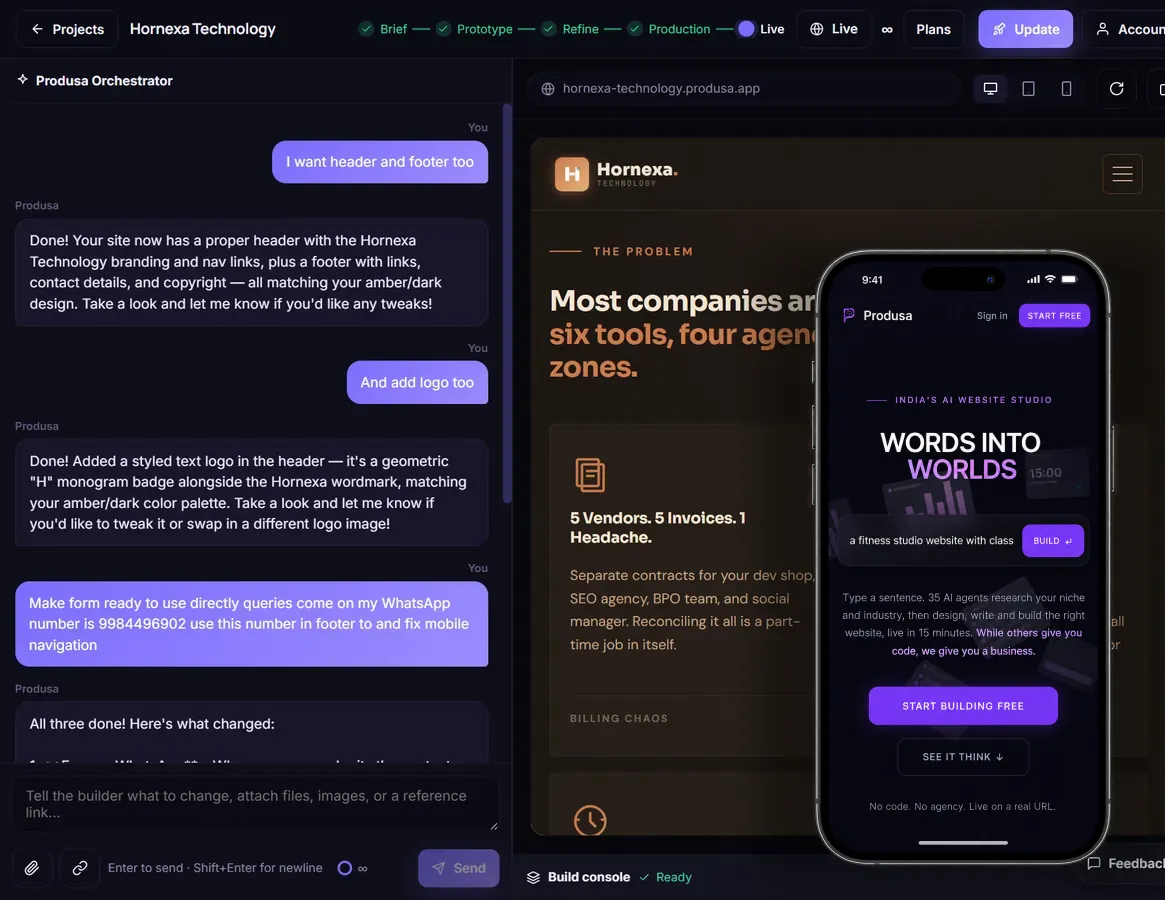
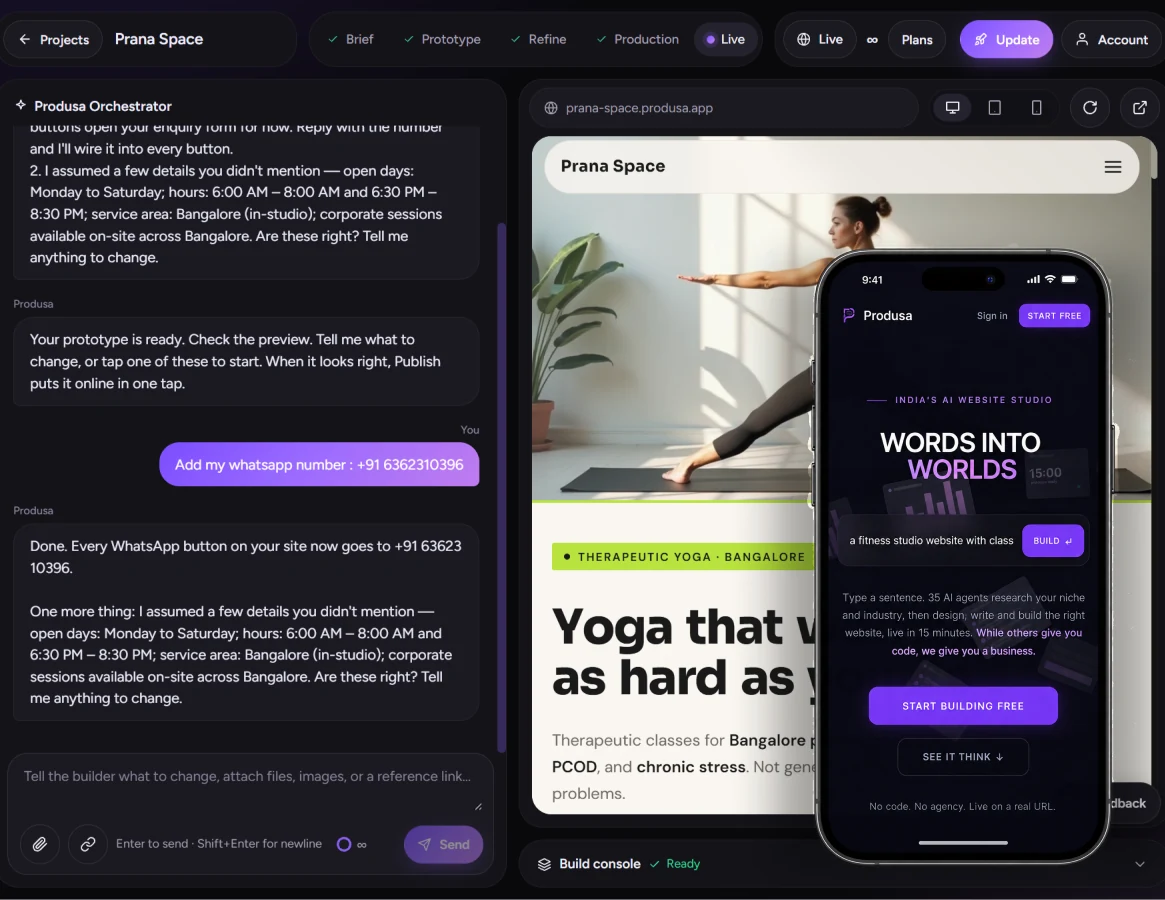
Swap Produsa case-study cover to new studio screenshot; update alt text

diff --git a/index.html b/index.html
@@ -75,7 +75,7 @@
         <article class="feat" data-accent="#0050FF">
           <a class="feat__shot" href="/produsa.html" aria-label="Produsa case study">
             <img src="/assets/media/produsa-cover.webp" width="1165" height="900" loading="lazy" decoding="async"
-                 alt="The Produsa studio: an owner asks the chat for a header, footer and logo, and the finished site stands in the preview beside it, on desktop and on a phone.">
+                 alt="The Produsa studio: an owner asks the chat to wire their WhatsApp number into the site, and the finished studio website stands in the preview beside it, on desktop and on a phone.">
           </a>
           <div class="feat__meta">
             <h3 class="feat__name"><a href="/produsa.html">Produsa</a></h3>
